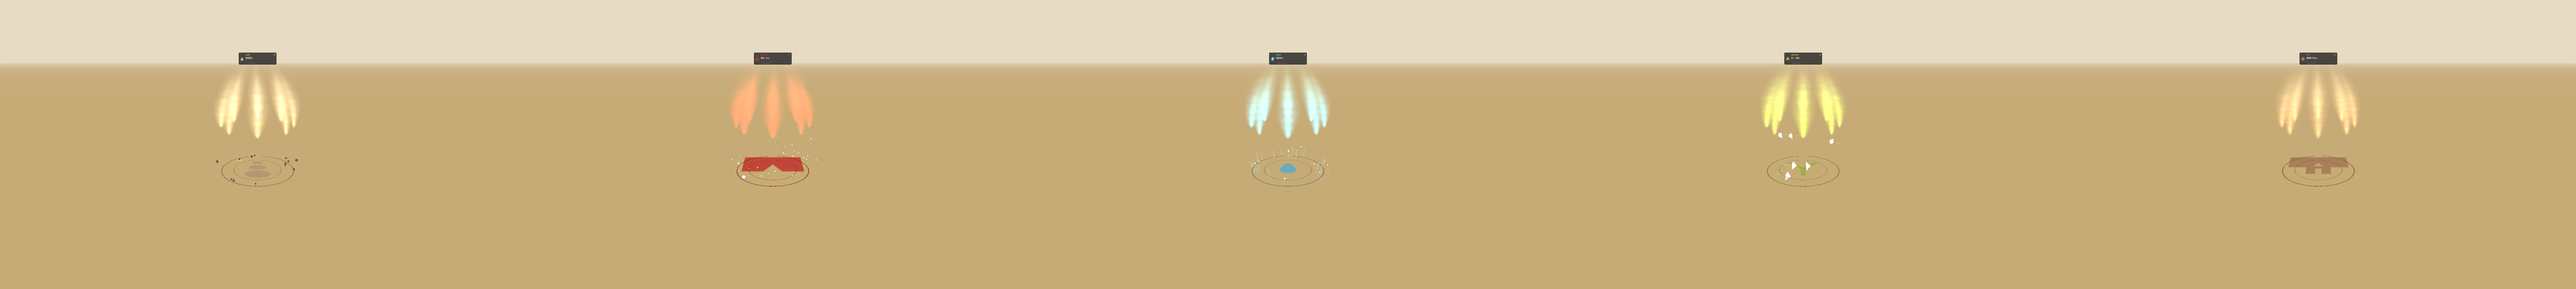
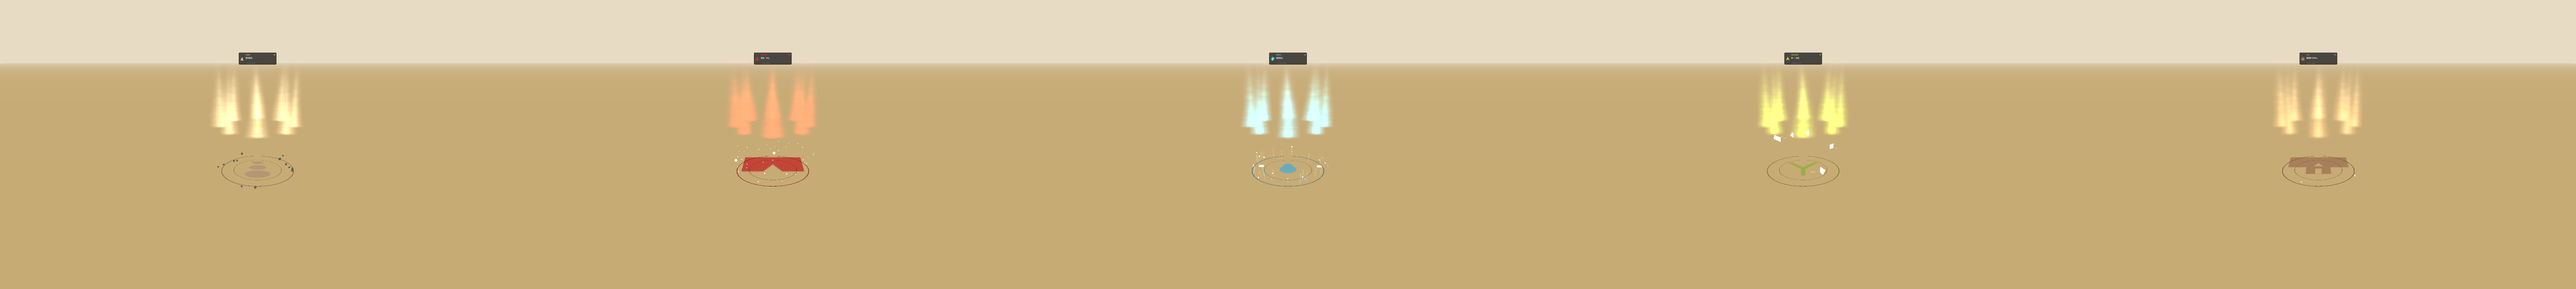
v024 V5.30: ribbon 修长 + 底宽顶 alpha 淡出 (HTML baseline 真风格)

diff --git a/UnityARLib/Assets/Scripts/SilkRibbonV2.cs b/UnityARLib/Assets/Scripts/SilkRibbonV2.cs
@@ -27,7 +27,7 @@ namespace Cairn.AR
         [SerializeField] float _angleRad = 0f;       // base angle on ring
         [SerializeField] float _phaseOffset = 0f;    // 0..1 lifecycle stagger
         [SerializeField] float _lifeHeight = 2.5f;   // V5.15 sub 共识: 必须 > bodyLength*2=2.0 让 stage3 bottomY 真升,V5.14 1.5 数学反向 bug
-        [SerializeField] float _bodyLength = 1.0f;   // m visible portion at any t
+        [SerializeField] float _bodyLength = 1.5f;   // V5.30 sub 推荐 height ×3: 1.0→1.5 让 ribbon 修长不胖锥
         [SerializeField] float _maxWidth = 0.10f;
         [SerializeField] int   _segs = 24;
         [SerializeField] float _swayAmp = 0.02f;   // V5.23 sub#2 抑火焰: 0.05→0.02 减弱 sway 让 ribbon 不扭曲成火焰
@@ -271,9 +271,10 @@ namespace Cairn.AR
             //   修: 0.95 让 ribbon 起源在 ring 内侧 5%, 与 ring 视觉真接合
             float baseX = Mathf.Cos(_angleRad) * _ringRadius * 0.95f;
             float baseZ = Mathf.Sin(_angleRad) * _ringRadius * 0.95f;
-            // V5.29 sub#2 推荐顶部向中心收束 (HTML baseline: 三股顶端汇聚成锥):
-            //   ribbon 顶部 sT=1 时往中心 (0, topY, 0) 拉,sT 越大越内收
-            //   公式: cx = baseX * (1 - sT^2 * 0.7)  让顶 30% 朝中心收
+            // V5.30 sub#19 reset 真根因修法:
+            //   V5.29 顶部收束让 ribbon 变纺锤(短2:1) — HTML baseline 是修长丝带(8:1)+顶 alpha 淡出
+            //   修: 取消 convergeFactor (ribbon 不收束),靠 alpha 淡出 + height 加长实现 HTML 风格
+            //   保留 swayTan 让 silk 仍有 wobble
 
             // Sway (gentle wobble)
             // V2.2 G16 fix: batch mode Time.time=0,改用 Shader.GetGlobalFloat("_CairnAnimTime")
@@ -302,10 +303,9 @@ namespace Cairn.AR
                 // Sway grows toward tip
                 float swayMag = _swayAmp * sT * sT;
                 float swayOff = swayMag * Mathf.Sin(sT * 2.5f + swayPhase);
-                // V5.29: 顶部向中心收束 (HTML 三股汇聚)
-                float convergeFactor = 1f - sT * sT * 0.7f;  // sT=0 → 1.0, sT=1 → 0.30
-                float cx = baseX * convergeFactor + swayTanX * swayOff;
-                float cz = baseZ * convergeFactor + swayTanZ * swayOff;
+                // V5.30: 取消顶部收束,ribbon 直立修长不再纺锤
+                float cx = baseX + swayTanX * swayOff;
+                float cz = baseZ + swayTanZ * swayOff;
 
                 Vector3 worldP = originWorld + new Vector3(cx, y, cz);
 
@@ -318,13 +318,11 @@ namespace Cairn.AR
                     widthDir.Normalize();
 
                 // Spindle width: narrow at base, fat at mid, fan at tip
-                // V5.24 sub#1 final 修 silk 形态收束:
-                //   sub#1 V5.23 仍说"顶部发散底部消散无宽度收束"
-                //   修 spindleShape: silk 真物理:底窄(挂点) + 中段最宽(摆幅) + 顶尖收(漂出)
-                //   公式: 0.3 + 0.7 * sin(π*sT) — sT=0 0.3, sT=0.5 1.0, sT=1 0.3 — 真 spindle
-                // V5.26 debug + 强化: spindle 振幅大 + 底端真贴近 0
-                //   sT=0 → 0.15 (真窄底), sT=0.5 → 1.0, sT=1 → 0.15 (真窄顶)
-                float spindleShape = 0.15f + 0.85f * Mathf.Sin(sT * Mathf.PI);
+                // V5.26 spindle 振幅强化: 0.15 + 0.85 * sin(π*sT)
+                // V5.30 sub#19 reset: HTML baseline 不是 spindle,是上窄下宽 + alpha 淡出
+                //   修 spindleShape: sT=0 1.0 (底宽,根植 cairn) → sT=1 0.4 (顶仍宽 alpha 淡出)
+                //   不再纺锤(底尖)
+                float spindleShape = 1.0f - sT * 0.6f;  // 1.0 → 0.4 单调减,底宽顶窄
                 #if UNITY_EDITOR
                 if (Application.isBatchMode && s == 0 && _life > 1.0f && _life < 1.05f)
                 {
